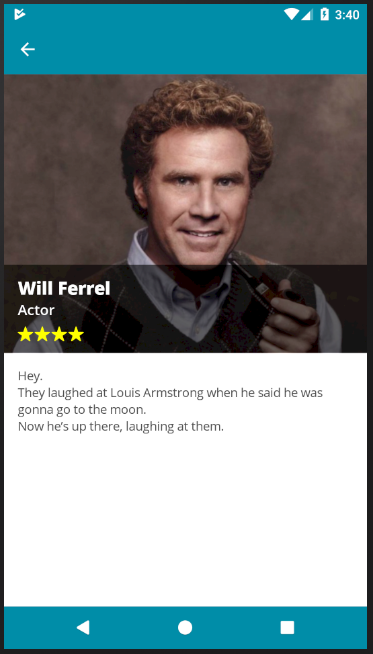
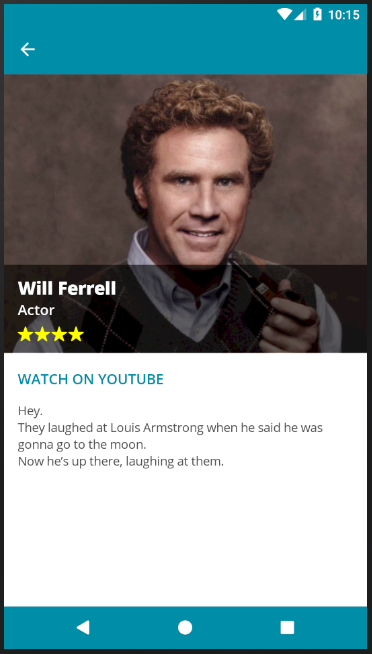
Added some comedians, and removed some others

diff --git a/SillyCompany.Mobile.Practices/Presentation/Views/SillyDudePage.xaml b/SillyCompany.Mobile.Practices/Presentation/Views/SillyDudePage.xaml
@@ -5,6 +5,8 @@
              xmlns:x="http://schemas.microsoft.com/winfx/2009/xaml"
              xmlns:customViews="clr-namespace:Sharpnado.Presentation.Forms.CustomViews;assembly=Sharpnado.Presentation.Forms"
              xmlns:d="http://schemas.microsoft.com/expression/blend/2008"
+             xmlns:effects="clr-namespace:Sharpnado.Presentation.Forms.Effects;assembly=Sharpnado.Presentation.Forms"
+             xmlns:loc="clr-namespace:SillyCompany.Mobile.Practices.Localization;assembly=SillyCompany.Mobile.Practices"
              xmlns:mc="http://schemas.openxmlformats.org/markup-compatibility/2006"
              xmlns:pullToRefresh="clr-namespace:Refractored.XamForms.PullToRefresh;assembly=Refractored.XamForms.PullToRefresh"
              xmlns:skiaRate="clr-namespace:SkiaRate;assembly=SillyCompany.Mobile.Practices"
@@ -27,6 +29,7 @@
                         <RowDefinition Height="40" />
                         <RowDefinition Height="30" />
                         <RowDefinition Height="30" />
+                        <RowDefinition Height="{Binding SourceUrl, Converter={StaticResource NullToValueConverter}, ConverterParameter=40}" />
                         <RowDefinition Height="*" />
                     </Grid.RowDefinitions>
 
@@ -64,7 +67,17 @@
                                          StrokeWidth="1"
                                          Value="{Binding SillinessDegree}" />
 
-                    <Frame Grid.Row="4"
+                    <Label Grid.Row="4"
+                           Style="{StaticResource TextSubhead}"
+                           effects:TapCommandEffect.Tap="{Binding OnItemTappedCommand}"
+                           effects:TapCommandEffect.TapParameter="{Binding SourceUrl}"
+                           effects:ViewEffect.TouchFeedbackColor="{StaticResource Accent}"
+                           IsVisible="{Binding SourceUrl, Converter={StaticResource IsNotNullConverter}}"
+                           Text="{loc:Translate SillyDude_GoToSource}"
+                           TextColor="{StaticResource Accent}"
+                           VerticalTextAlignment="End" />
+
+                    <Frame Grid.Row="5"
                            Padding="0,16,0,0"
                            BackgroundColor="Transparent"
                            HasShadow="False">

diff --git a/SillyCompany.Mobile.Practices/App.xaml b/SillyCompany.Mobile.Practices/App.xaml
@@ -8,7 +8,9 @@
     <Application.Resources>
         <ResourceDictionary>
 
+            <convertersSharpnado:IsNotNullConverter x:Key="IsNotNullConverter" />
             <convertersSharpnado:IsNullConverter x:Key="IsNullConverter" />
+            <converters:NullToValueConverter x:Key="NullToValueConverter" />
             <converters:SelectedItemEventArgsToSelectedItemConverter x:Key="SelectedItemConverter" />
             <converters:ExceptionToImageSourceConverter x:Key="ExceptionToImageSourceConverter" />
             <converters:SizeScalingByScreenConverter x:Key="SizeScalingByScreenConverter" />

diff --git a/SillyCompany.Mobile.Practices/Domain/Silly/SillyDudeService.cs b/SillyCompany.Mobile.Practices/Domain/Silly/SillyDudeService.cs
@@ -34,7 +34,7 @@ namespace SillyCompany.Mobile.Practices.Domain.Silly
                         ++_peopleCounter,
                         new SillyDude(
                             _peopleCounter,
-                            "Will Ferrel",
+                            "Will Ferrell",
                             "Actor",
                             "Hey.\nThey laughed at Louis Armstrong when he said he was gonna go to the moon.\nNow he’s up there, laughing at them.",
 #if LOCAL_DATA
@@ -42,7 +42,8 @@ namespace SillyCompany.Mobile.Practices.Domain.Silly
 #else
                             "http://www.2oceansvibe.com/wp-content/uploads/2017/10/willlferell.jpg",
 #endif
-                            4)
+                            4,
+                            "https://youtu.be/sPFRZP4qY7I?t=26")
                     },
                     {
                         ++_peopleCounter,
@@ -56,7 +57,8 @@ namespace SillyCompany.Mobile.Practices.Domain.Silly
 #else
                             "http://images.uncyc.org/commons/d/dd/The_leader_of_the_Knights_Who_Say_Ni.jpg",
 #endif
-                            5)
+                            5,
+                            "https://www.youtube.com/watch?v=zIV4poUZAQo")
                     },
                     {
                         ++_peopleCounter,
@@ -72,19 +74,34 @@ namespace SillyCompany.Mobile.Practices.Domain.Silly
 #endif
                             5)
                     },
+//                    {
+//                        ++_peopleCounter,
+//                        new SillyDude(
+//                            _peopleCounter,
+//                            "Louis C.K.",
+//                            "Comedian",
+//                            "There are people that really live by doing the right thing, but I don't know what that is, I'm really curious about that.\nI'm really curious about what people think they're doing when they're doing something evil, casually.\nI think it's really interesting, that we benefit from suffering so much, and we excuse ourselves from it.",
+//#if LOCAL_DATA
+//                            "louis_ck.jpg",
+//#else
+//                            "http://pixel.nymag.com/imgs/daily/vulture/2016/04/21/21-louis-ck.w529.h529.jpg",
+//#endif
+//                            2)
+//                    },
                     {
                         ++_peopleCounter,
                         new SillyDude(
                             _peopleCounter,
-                            "Louis C.K.",
-                            "Comedian",
-                            "There are people that really live by doing the right thing, but I don't know what that is, I'm really curious about that.\nI'm really curious about what people think they're doing when they're doing something evil, casually.\nI think it's really interesting, that we benefit from suffering so much, and we excuse ourselves from it.",
+                            "Triumph",
+                            "Insult Comic Dog",
+                            "Occupy Wall Street, talking to a trader with a Fox News mustache on.\nThese protesters with their whining and crying right?\nDon't they realize that their public education are being funded from the taxes you evade each year?\nI don't want to keep you, you're a good man! You better hurry back from lunch so you can collect your hurry back from lunch bonus.",
 #if LOCAL_DATA
                             "louis_ck.jpg",
 #else
-                            "http://pixel.nymag.com/imgs/daily/vulture/2016/04/21/21-louis-ck.w529.h529.jpg",
+                            "https://jnxz07-a.akamaihd.net/wp-content/uploads/2015/03/triumph-e1425247855563.jpeg",
 #endif
-                            2)
+                            2,
+                            "https://youtu.be/O-253uBJap8?t=315")
                     },
                     {
                         ++_peopleCounter,
@@ -106,13 +123,14 @@ namespace SillyCompany.Mobile.Practices.Domain.Silly
                             _peopleCounter,
                             "Steve Carell",
                             "Comedian",
-                            "Everyone said to Vincent van Gogh, \"You can\'t be a great painter, you only have one ear.\"\nAnd you know what he said?\n\"I can\'t hear you.",
+                            "Vincent van Gogh. Everyone told him: \"You only have one ear. You cannot be a great artist.\"\nAnd you know what he said?\n\"I can\'t hear you.",
 #if LOCAL_DATA
                             "louis_ck.jpg",
 #else
                             "http://www4.pictures.zimbio.com/mp/8q1mIIQGkXHm.jpg",
 #endif
-                            3)
+                            3,
+                            "https://youtu.be/N9Z4vqysxMQ?t=92")
                     },
                     {
                         ++_peopleCounter,
@@ -126,7 +144,8 @@ namespace SillyCompany.Mobile.Practices.Domain.Silly
 #else
                             "http://cdn.playbuzz.com/cdn/b0cd9743-c236-4c0e-b468-00f83724f117/e2b08eac-053b-4b06-8538-405852dc865b.jpg",
 #endif
-                            4)
+                            4,
+                            "https://www.youtube.com/watch?v=jzYzVMcgWhg")
                     },
                     {
                         ++_peopleCounter,
@@ -140,7 +159,23 @@ namespace SillyCompany.Mobile.Practices.Domain.Silly
 #else
                             "http://i123.photobucket.com/albums/o320/lucy_edward/moss_pic2.jpg",
 #endif
-                            3)
+                            3,
+                            "https://youtu.be/NKHyqjHqQLU?t=32")
+                    },
+                    {
+                        ++_peopleCounter,
+                        new SillyDude(
+                            _peopleCounter,
+                            "Les Nuls",
+                            "Crétins Fabuleux",
+                            "Agad la té'évision é pis dors!\nAgad la té'évision é pis dors.\nAgad la té'évision é pis dors!\nAgad la té'évision é pis dors.\nAgad la té'évision é pis dors!\nAgad la té'évision é pis dors.\nAgad la té'évision é pis dors.\n",
+#if LOCAL_DATA
+                            "louis_ck.jpg",
+#else
+                            "http://4.bp.blogspot.com/_fMA4vs4kLc0/S0yka8se4NI/AAAAAAAAAtc/chbrVG878_0/s1600/carette+chabat.jpg",
+#endif
+                            4,
+                            "https://www.youtube.com/watch?v=lNEpFJYduto")
                     },
                 };
         }

diff --git a/SillyCompany.Mobile.Practices/Domain/Silly/SillyDude.cs b/SillyCompany.Mobile.Practices/Domain/Silly/SillyDude.cs
@@ -4,7 +4,7 @@ namespace SillyCompany.Mobile.Practices.Domain.Silly
 {
     public class SillyDude
     {
-        public SillyDude(int id, string name, string role, string description, string imageUrl, int sillinessDegree)
+        public SillyDude(int id, string name, string role, string description, string imageUrl, int sillinessDegree, string sourceUrl = null)
         {
             if (sillinessDegree > 5 || sillinessDegree < 0)
             {
@@ -17,33 +17,21 @@ namespace SillyCompany.Mobile.Practices.Domain.Silly
             Description = description;
             ImageUrl = imageUrl;
             SillinessDegree = sillinessDegree;
+            SourceUrl = sourceUrl;
         }
 
-        /// <summary>
-        /// Gets the id.
-        /// </summary>
         public int Id { get; }
 
-        /// <summary>
-        /// Gets the name.
-        /// </summary>
         public string Name { get; }
 
-        /// <summary>
-        /// Gets the role.
-        /// </summary>
         public string Role { get; }
 
-        /// <summary>
-        /// Gets the description.
-        /// </summary>
         public string Description { get; }
 
-        /// <summary>
-        /// Gets the image url.
-        /// </summary>
         public string ImageUrl { get; }
 
         public int SillinessDegree { get; }
+
+        public string SourceUrl { get; }
     }
 }

diff --git a/SillyCompany.Mobile.Practices/Presentation/ViewModels/SillyDudeVm.cs b/SillyCompany.Mobile.Practices/Presentation/ViewModels/SillyDudeVm.cs
@@ -7,11 +7,16 @@
 // </summary>
 // --------------------------------------------------------------------------------------------------------------------
 
+using System;
 using System.Threading.Tasks;
+
+using Sharpnado.Presentation.Forms.Commands;
 using Sharpnado.Presentation.Forms.ViewModels;
 using SillyCompany.Mobile.Practices.Domain.Silly;
 using SillyCompany.Mobile.Practices.Presentation.Navigables;
 using SillyCompany.Mobile.Practices.Presentation.ViewModels.ViewModelObjects;
+
+using Xamarin.Forms;
 
 namespace SillyCompany.Mobile.Practices.Presentation.ViewModels
 {
@@ -61,7 +66,8 @@ namespace SillyCompany.Mobile.Practices.Presentation.ViewModels
 
         private async Task<SillyDudeVmo> LoadSillyDude(int id)
         {
-            return new SillyDudeVmo(await _dudeService.GetSilly(id), null);
+            var dude = await _dudeService.GetSilly(id);
+            return new SillyDudeVmo(dude, new TapCommand(url => Device.OpenUri(new Uri((string)url))));
         }
     }
 }

diff --git a/SillyCompany.Mobile.Practices/Presentation/Converters/NullToValueConverter.cs b/SillyCompany.Mobile.Practices/Presentation/Converters/NullToValueConverter.cs
@@ -1,0 +1,25 @@
+using System;
+using System.Globalization;
+
+using Xamarin.Forms;
+
+namespace SillyCompany.Mobile.Practices.Presentation.Converters
+{
+    public class NullToValueConverter : IValueConverter
+    {
+        public object Convert(object value, Type targetType, object parameter, CultureInfo culture)
+        {
+            if (parameter == null || value == null)
+            {
+                return 0;
+            }
+
+            return double.Parse((string)parameter);
+        }
+
+        public object ConvertBack(object value, Type targetType, object parameter, CultureInfo culture)
+        {
+            throw new NotImplementedException();
+        }
+    }
+}

diff --git a/SillyCompany.Mobile.Practices/Localization/SillyResources.Designer.cs b/SillyCompany.Mobile.Practices/Localization/SillyResources.Designer.cs
@@ -151,6 +151,15 @@ namespace SillyCompany.Mobile.Practices.Localization {
         }
         
         /// <summary>
+        ///   Looks up a localized string similar to WATCH ON YOUTUBE.
+        /// </summary>
+        internal static string SillyDude_GoToSource {
+            get {
+                return ResourceManager.GetString("SillyDude_GoToSource", resourceCulture);
+            }
+        }
+        
+        /// <summary>
         ///   Looks up a localized string similar to Error Emulation.
         /// </summary>
         internal static string SillyPeople_ErrorEmulation {

diff --git a/SillyCompany.Mobile.Practices/Presentation/ViewModels/ViewModelObjects/SillyDudeVmo.cs b/SillyCompany.Mobile.Practices/Presentation/ViewModels/ViewModelObjects/SillyDudeVmo.cs
@@ -22,6 +22,7 @@ namespace SillyCompany.Mobile.Practices.Presentation.ViewModels.ViewModelObjects
             Description = dude.Description;
             ImageUrl = dude.ImageUrl;
             SillinessDegree = dude.SillinessDegree;
+            SourceUrl = dude.SourceUrl;
 
             OnItemTappedCommand = onItemTappedCommand;
         }
@@ -39,5 +40,7 @@ namespace SillyCompany.Mobile.Practices.Presentation.ViewModels.ViewModelObjects
         public string ImageUrl { get; }
 
         public int SillinessDegree { get; }
+
+        public string SourceUrl { get; }
     }
 }
